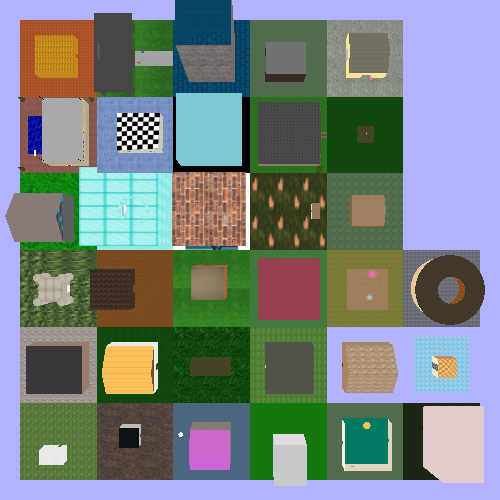
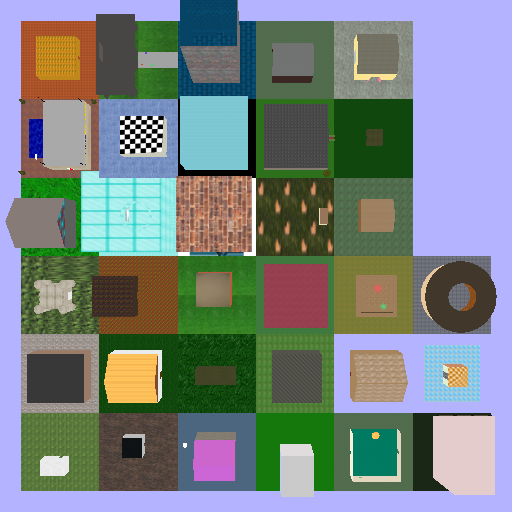
minimap texture

diff --git a/src/game/BatsEverywhere.java b/src/game/BatsEverywhere.java
@@ -18,6 +18,7 @@ import weapons.ProjectileWeapons;
 
 import com.jogamp.opengl.util.FPSAnimator;
 import com.jogamp.opengl.util.GLReadBufferUtil;
+import com.jogamp.opengl.util.texture.Texture;
 
 public class BatsEverywhere implements GLEventListener
 {
@@ -31,7 +32,9 @@ public class BatsEverywhere implements GLEventListener
     private PlayerLogger logger = new PlayerLogger();
     private int windowWidth, windowHeight;
     private GLReadBufferUtil bufferUtil = new GLReadBufferUtil(false, false); //For capturing screen shots
-
+    private Texture mapimg; //mini map texture
+    
+    
     public void init(GLAutoDrawable drawable) {
       //drawable.setGL(new DebugGL2(drawable.getGL().getGL2())); // to do error check upon every GL call.  Slow but useful.
       //drawable.setGL(new TraceGL2(drawable.getGL().getGL2(), System.out)); // to trace every call.  Less useful.
@@ -133,7 +136,7 @@ public class BatsEverywhere implements GLEventListener
 
          JFrame frame = new JFrame("Too Many Bats");
          GLCanvas canvas = new GLCanvas();
-         canvas.setPreferredSize(new Dimension(500,500));
+         canvas.setPreferredSize(new Dimension(512,512));
 
          BatsEverywhere renderer = new BatsEverywhere();
          canvas.addGLEventListener(renderer);
